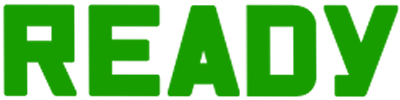
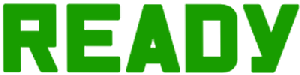
画像のサイズを一回り小さく、テンポをよくするためにスタート演出をちょい変更

diff --git a/Application/scene/GamePlayScene.h b/Application/scene/GamePlayScene.h
@@ -88,8 +88,8 @@ public://メンバ関数
 		Down,
 		Bound1,
 		Bound2,
-		Wait,
 		Redy,
+		Wait,
 		Go,
 	};
 
@@ -146,11 +146,11 @@ private:
 	//スプライトイージング
 	float spriteEaseTime;
 
-	const float spriteEaseTimer = 30;
+	const float spriteEaseTimer = 40;
 	float spriteWaitTime;
-	const float spriteWaitTimer = 60;
+	const float spriteWaitTimer = 120;
 	float waitTime;
-	const float waitTimer = 160;
+	const float waitTimer = 10;
 	float rPosStartY;
 	float sPosStartY;
 	float mPosStartX;

diff --git a/Application/Block/BaseBlock.cpp b/Application/Block/BaseBlock.cpp
@@ -30,7 +30,7 @@ void BaseBlock::SetIsStaging(const bool& isStaging_) {
 }
 
 void BaseBlock::Staging() {
-	if ( stagingTime < stagingTimer && GamePlayScene::startCount >= GamePlayScene::Wait )
+	if ( stagingTime < stagingTimer && GamePlayScene::startCount >= GamePlayScene::Redy )
 	{
 		Vector3 rot = obj->GetRotation();
 		Vector3 scale = obj->GetScale();
